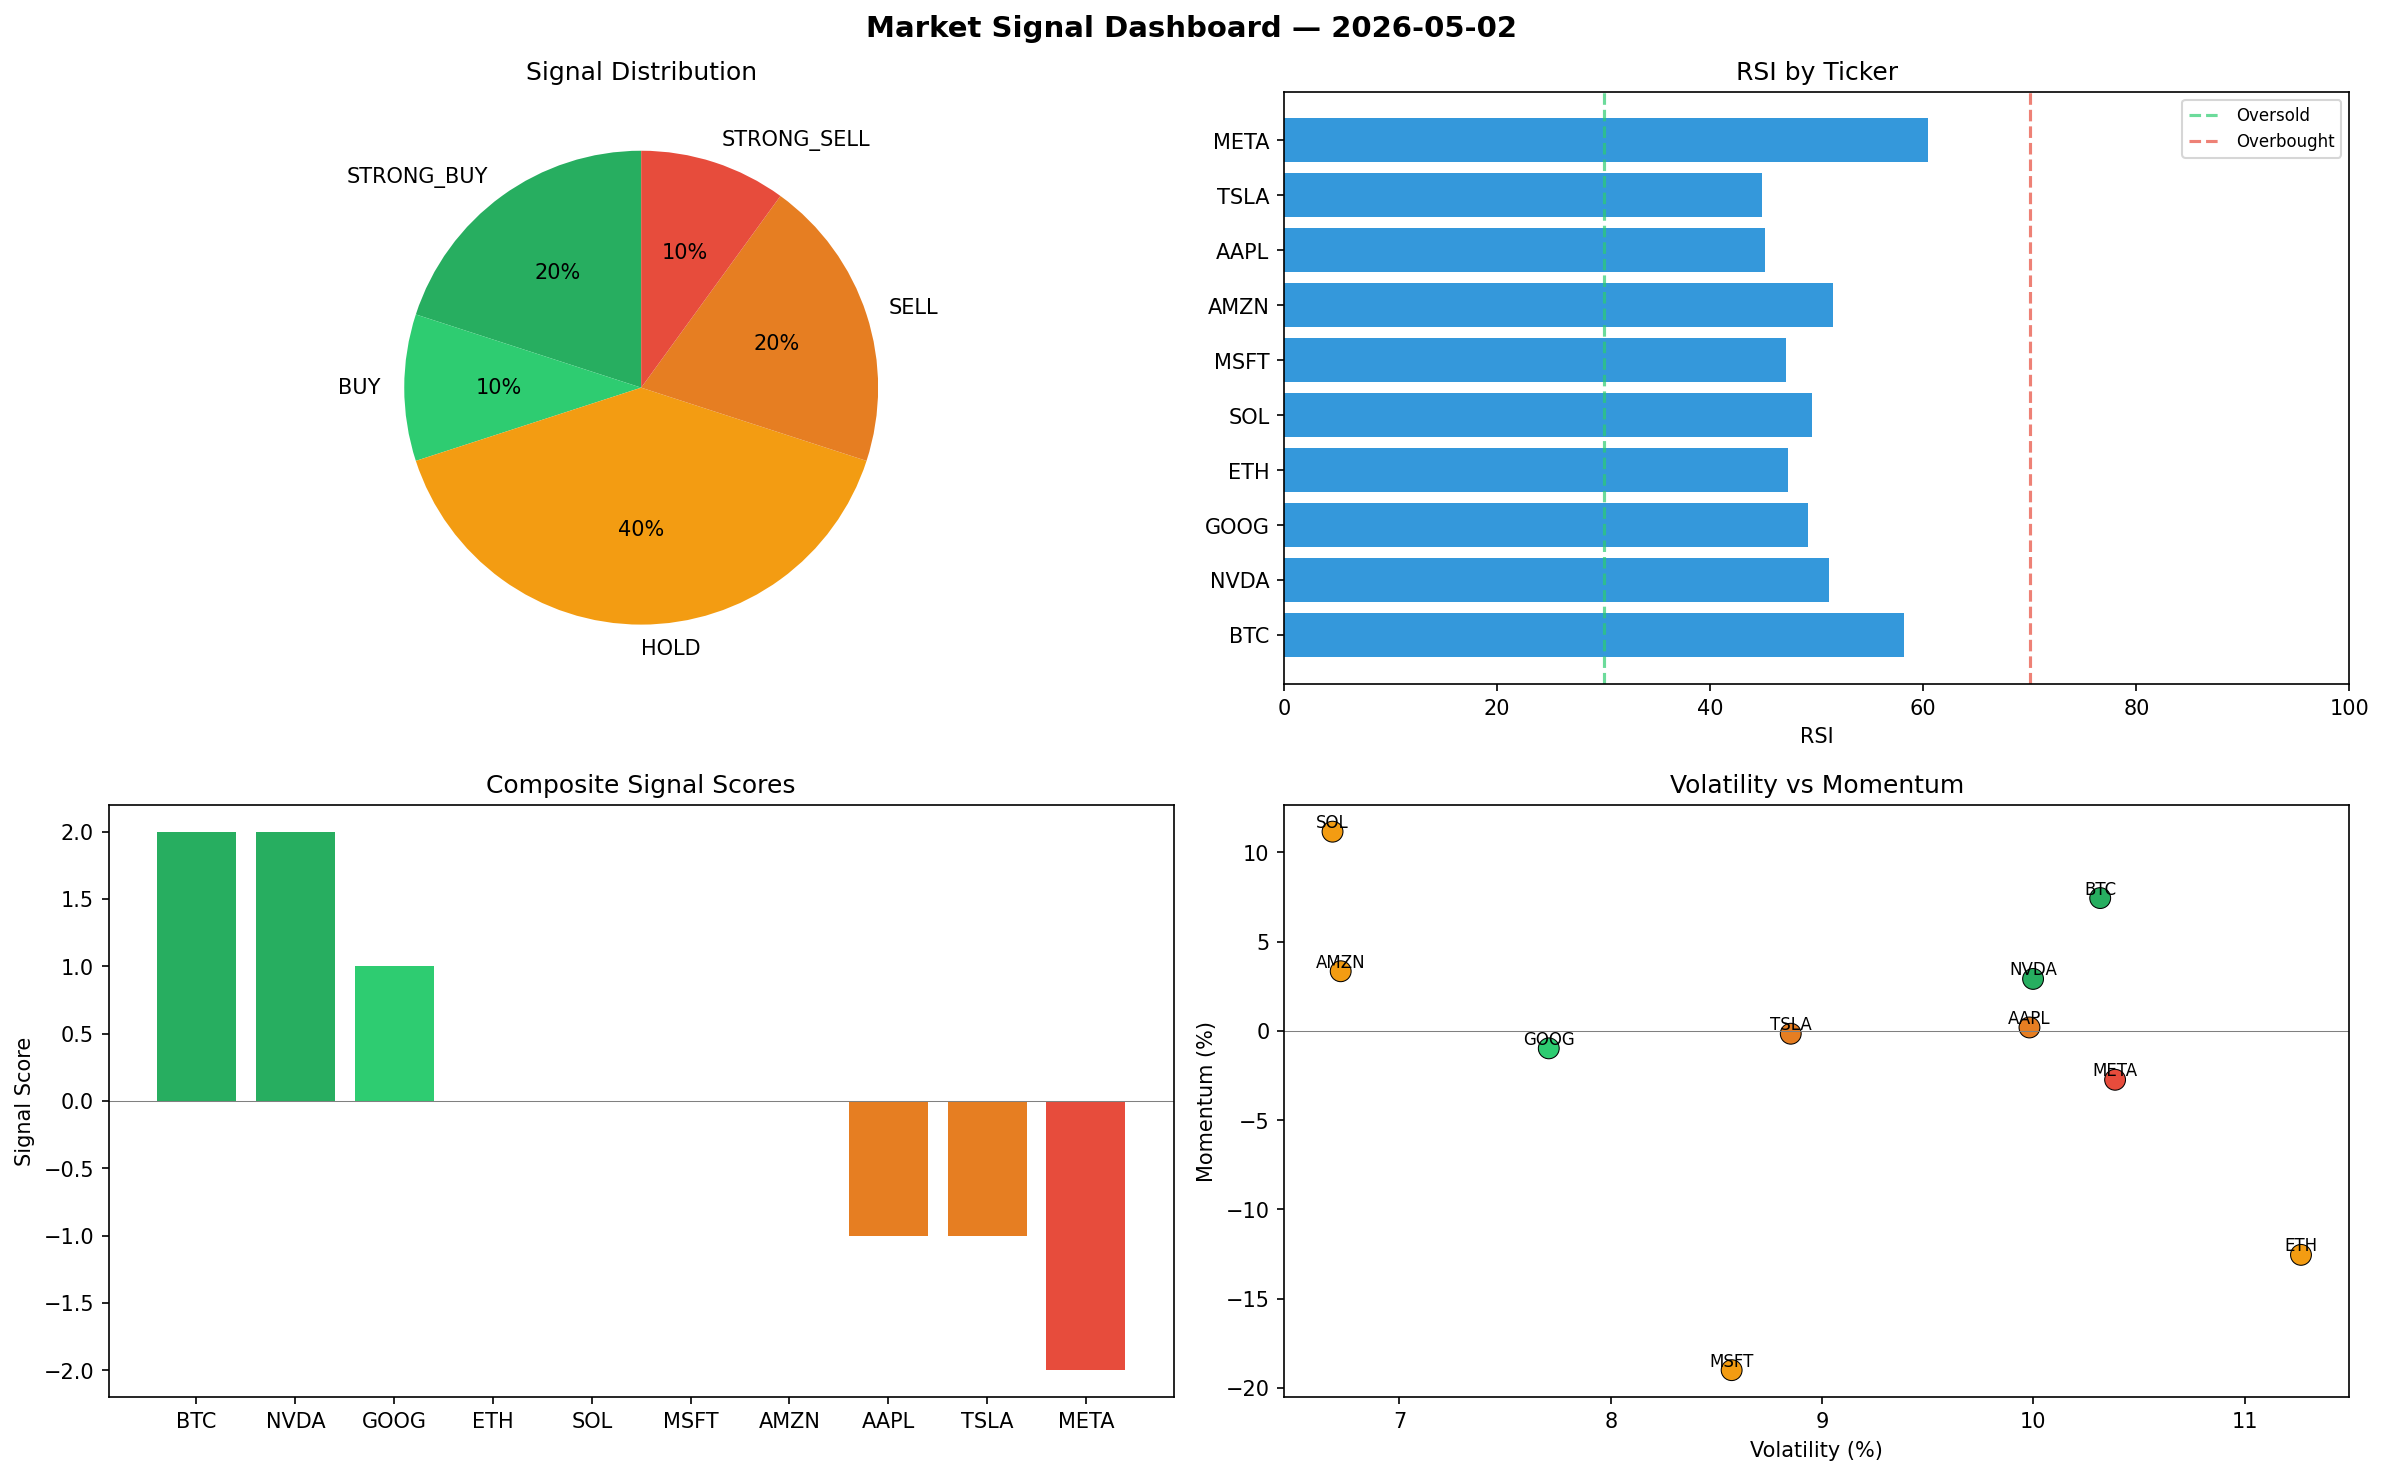
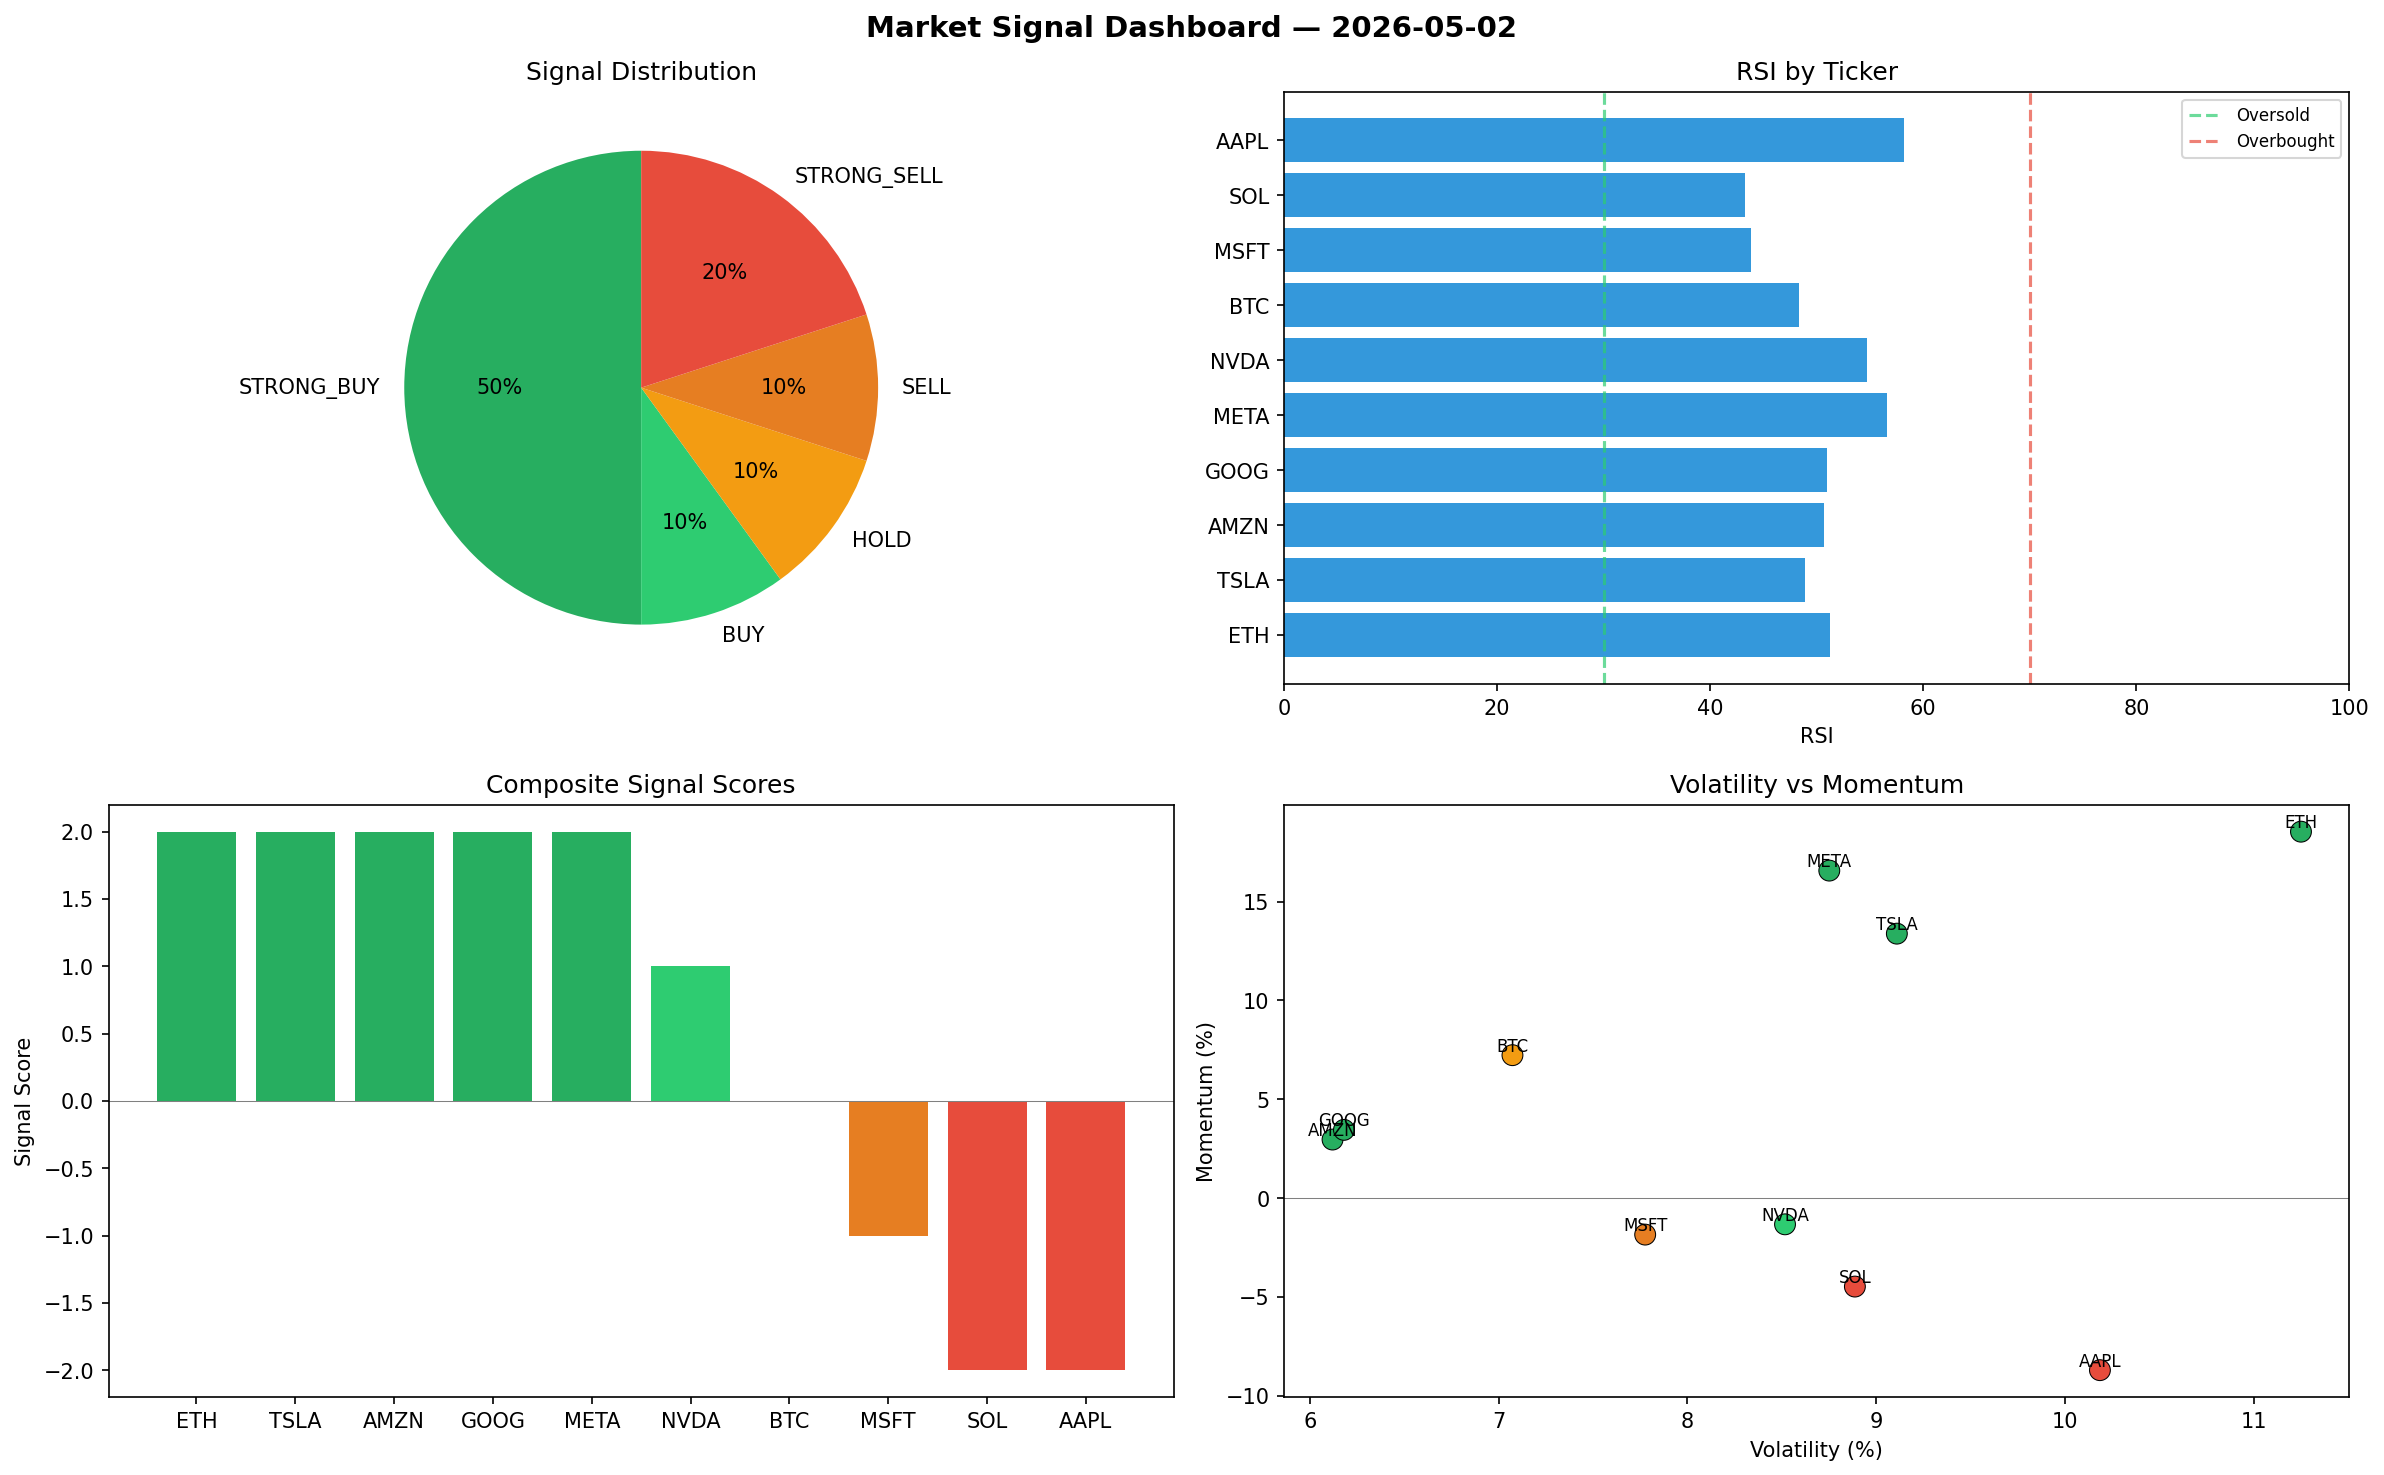
automated-bots: market signals 2026-05-02T21:04

diff --git a/logs/2026-05-02.md b/logs/2026-05-02.md
@@ -1,6 +1,6 @@
 # Market Signal Report — 2026-05-02
 
-**Run ID:** `643f6575c5` | **Buy:** 3 | **Sell:** 3 | **Hold:** 4
+**Run ID:** `32f085418e` | **Buy:** 6 | **Sell:** 3 | **Hold:** 1
 
 ![Dashboard](2026-05-02_dashboard.png)
 
@@ -8,28 +8,28 @@
 
 | Ticker | Price | Signal | Score | RSI | Momentum | Confidence |
 |--------|-------|--------|-------|-----|----------|------------|
-| BTC | $1543.47 | **STRONG_BUY** | 2 | 58.19 | 0.0744 | 0.5 |
-| NVDA | $1654.43 | **STRONG_BUY** | 2 | 51.17 | 0.0291 | 0.5 |
-| GOOG | $1474.73 | **BUY** | 1 | 49.21 | -0.0098 | 0.25 |
-| ETH | $5111.62 | **HOLD** | 0 | 47.29 | -0.1255 | 0.0 |
-| SOL | $499.13 | **HOLD** | 0 | 49.59 | 0.1116 | 0.0 |
-| MSFT | $593.54 | **HOLD** | 0 | 47.11 | -0.1901 | 0.0 |
-| AMZN | $3035.5 | **HOLD** | 0 | 51.55 | 0.0334 | 0.0 |
-| AAPL | $220.4 | **SELL** | -1 | 45.16 | 0.0019 | 0.25 |
-| TSLA | $3138.82 | **SELL** | -1 | 44.83 | -0.0016 | 0.25 |
-| META | $4691.1 | **STRONG_SELL** | -2 | 60.41 | -0.0274 | 0.5 |
+| ETH | $4383.02 | **STRONG_BUY** | 2 | 51.23 | 0.1854 | 0.5 |
+| TSLA | $2844.63 | **STRONG_BUY** | 2 | 48.89 | 0.1338 | 0.5 |
+| AMZN | $4668.55 | **STRONG_BUY** | 2 | 50.71 | 0.0296 | 0.5 |
+| GOOG | $4717.12 | **STRONG_BUY** | 2 | 50.97 | 0.0345 | 0.5 |
+| META | $918.37 | **STRONG_BUY** | 2 | 56.55 | 0.1657 | 0.5 |
+| NVDA | $4306.74 | **BUY** | 1 | 54.71 | -0.0133 | 0.25 |
+| BTC | $1224.29 | **HOLD** | 0 | 48.29 | 0.0723 | 0.0 |
+| MSFT | $3659.7 | **SELL** | -1 | 43.84 | -0.0185 | 0.25 |
+| SOL | $1800.81 | **STRONG_SELL** | -2 | 43.23 | -0.0448 | 0.5 |
+| AAPL | $1072.98 | **STRONG_SELL** | -2 | 58.21 | -0.0871 | 0.5 |
 
 ## Delta vs Yesterday
 
 | Ticker | Today | Yesterday | Price Change | Signal Changed |
 |--------|-------|-----------|-------------|----------------|
-| BTC | STRONG_BUY | BUY | 📈 115.05% | ⚠ YES |
-| NVDA | STRONG_BUY | BUY | 📉 -37.56% | ⚠ YES |
-| GOOG | BUY | STRONG_BUY | 📉 -63.89% | ⚠ YES |
-| ETH | HOLD | HOLD | 📈 62.52% | — |
-| SOL | HOLD | STRONG_SELL | 📉 -89.58% | ⚠ YES |
-| MSFT | HOLD | HOLD | 📉 -57.73% | — |
-| AMZN | HOLD | STRONG_BUY | 📈 574.72% | ⚠ YES |
-| AAPL | SELL | SELL | 📉 -82.32% | — |
-| TSLA | SELL | STRONG_BUY | 📉 -39.63% | ⚠ YES |
-| META | STRONG_SELL | STRONG_SELL | 📈 294.88% | — |
+| ETH | STRONG_BUY | HOLD | 📈 39.36% | ⚠ YES |
+| TSLA | STRONG_BUY | STRONG_BUY | 📉 -45.29% | — |
+| AMZN | STRONG_BUY | STRONG_BUY | 📈 937.71% | — |
+| GOOG | STRONG_BUY | STRONG_BUY | 📈 15.5% | — |
+| META | STRONG_BUY | STRONG_SELL | 📉 -22.7% | ⚠ YES |
+| NVDA | BUY | BUY | 📈 62.55% | — |
+| BTC | HOLD | BUY | 📈 70.58% | ⚠ YES |
+| MSFT | SELL | HOLD | 📈 160.64% | ⚠ YES |
+| SOL | STRONG_SELL | STRONG_SELL | 📉 -62.42% | — |
+| AAPL | STRONG_SELL | SELL | 📉 -13.91% | ⚠ YES |
